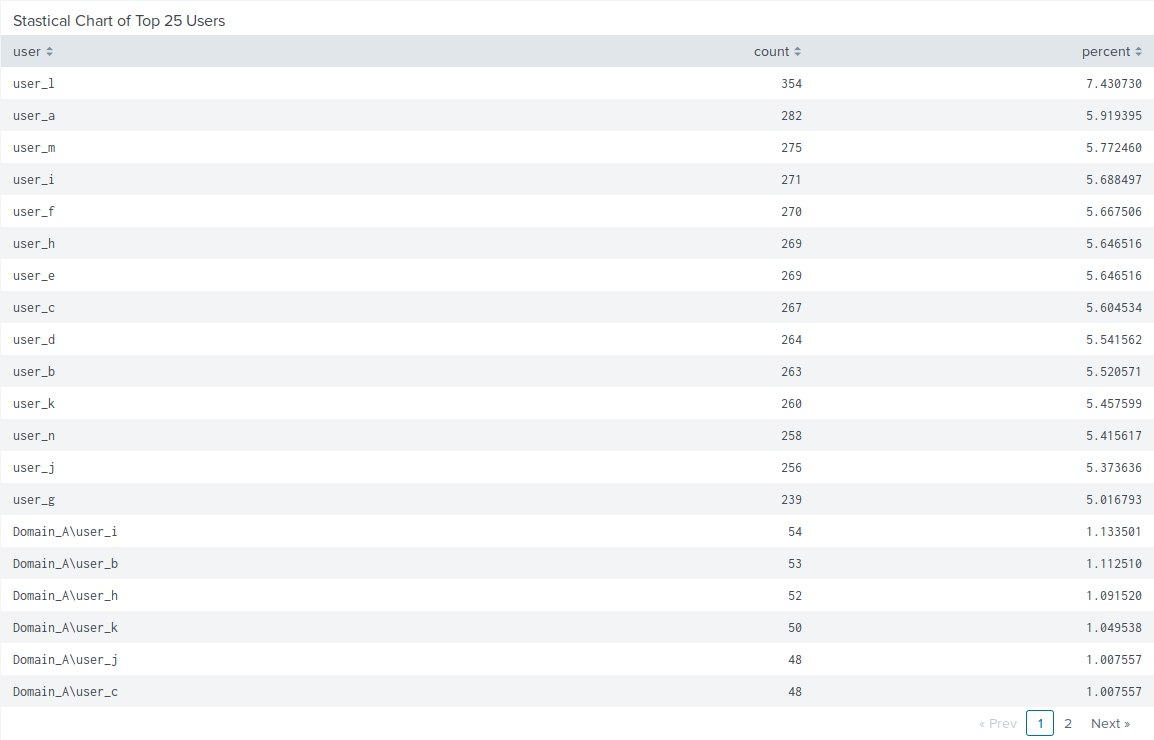
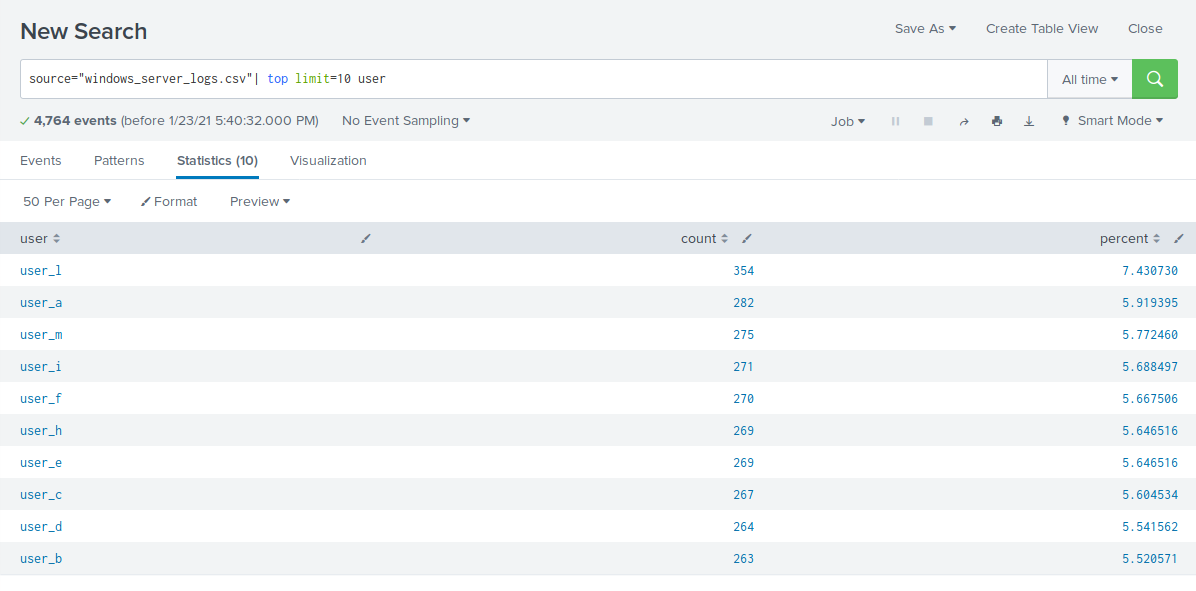
commit

diff --git a/README.md b/README.md
@@ -530,8 +530,21 @@ Analyze your new dashboard results and answer the following questions:
 
 Analyze your new dashboard results and answer the following questions:
 
+ `source="windows_server_logs.csv” user=user_a | timechart span=1h count by user`
 
+ ![usera_win](Screenshots/part2_win/win_line_usera_user.png)
 
+ `source="windows_server_attack_logs.csv” user=user_a | timechart span=1h count by user`
+
+ ![usera_winatk](Screenshots/part2_win/winatk_line_usera_user.png)
+
+ `source="windows_server_logs.csv” user=user_k | timechart span=1h count by user`
+
+ ![userk_win](Screenshots/part2_win/win_line_userk_user.png)
+
+ `source="windows_server_attack_logs.csv” user=user_k | timechart span=1h count by user`
+
+ ![userk_winatk](Screenshots/part2_win/winatk_line_userk_user.png)
 
 - Does anything stand out as suspicious? 
 
@@ -554,6 +567,22 @@ Analyze your new dashboard results and answer the following questions:
 #### Dashboard Analysis for Signatures with Bar, Graph, and Pie Charts
 
 Analyze your new dashboard results and answer the following questions:
+
+ `source="windows_server_logs.csv” signature="A user account was locked out" | timechart span=1h count by signature`
+
+ ![lockedout_win](Screenshots/part2_win/win_bar_lockedout_sig.png)
+
+ `source="windows_server_attack_logs.csv” signature="A user account was locked out" | timechart span=1h count by signature`
+
+ ![lockedout_winatk](Screenshots/part2_win/winatk_bar_lockedout_sig.png)
+
+ `source="windows_server_logs.csv” signature="An attempt was made to reset an accounts password" | timechart span=1h count by signature`
+
+ ![accountpw_win](Screenshots/part2_win/win_bar_accountpw_sig.png)
+
+ `source="windows_server_attack_logs.csv” signature="An attempt was made to reset an accounts password" | timechart span=1h count by signature`
+
+ ![accountpw_winatk](Screenshots/part2_win/winatk_bar_accountpw_sig.png)
 
 - Does anything stand out as suspicious?
 
@@ -582,6 +611,22 @@ Analyze your new dashboard results and answer the following questions:
 
 Analyze your new dashboard results, and answer the following questions:
 
+ `source="windows_server_logs.csv” user=user_a | timechart span=1h count by user`
+
+ ![usera_win](Screenshots/part2_win/win_bar_usera_user.png)
+
+ `source="windows_server_attack_logs.csv” user=user_a | timechart span=1h count by user`
+
+ ![usera_winatk](Screenshots/part2_win/winatk_bar_usera_user.png)
+
+ `source="windows_server_logs.csv” user=user_k | timechart span=1h count by user`
+
+ ![userk_win](Screenshots/part2_win/win_bar_userk_user.png)
+
+ `source="windows_server_attack_logs.csv” user=user_k | timechart span=1h count by user`
+
+ ![userk_winatk](Screenshots/part2_win/winatk_bar_userk_user.png)
+
 - Does anything stand out as suspicious? 
 
     - There was suspicious activity at 12:00 a.m. and 3:00 a.m. on Wednesday, March 25th and at 9:00 a.m. and 10 a.m. on Wednesday, March 25th. 
@@ -607,6 +652,14 @@ Analyze your new dashboard results, and answer the following questions:
 #### Dashboard Analysis for Users with Statistical Charts
 
 Analyze your new dashboard results, and answer the following question:
+
+ `source="windows_server_logs.csv" | top limit=10 user
+
+ ![stat_win](Screenshots/part2_win/win_stat_user.png)
+
+ `source="windows_server_attack_logs.csv" | top limit=10 user
+
+ ![stat_winatk](Screenshots/part2_win/winatk_stat_user.png)
 
 - What are the advantages and disadvantages of using this report, compared to the other user panels you created?
 
